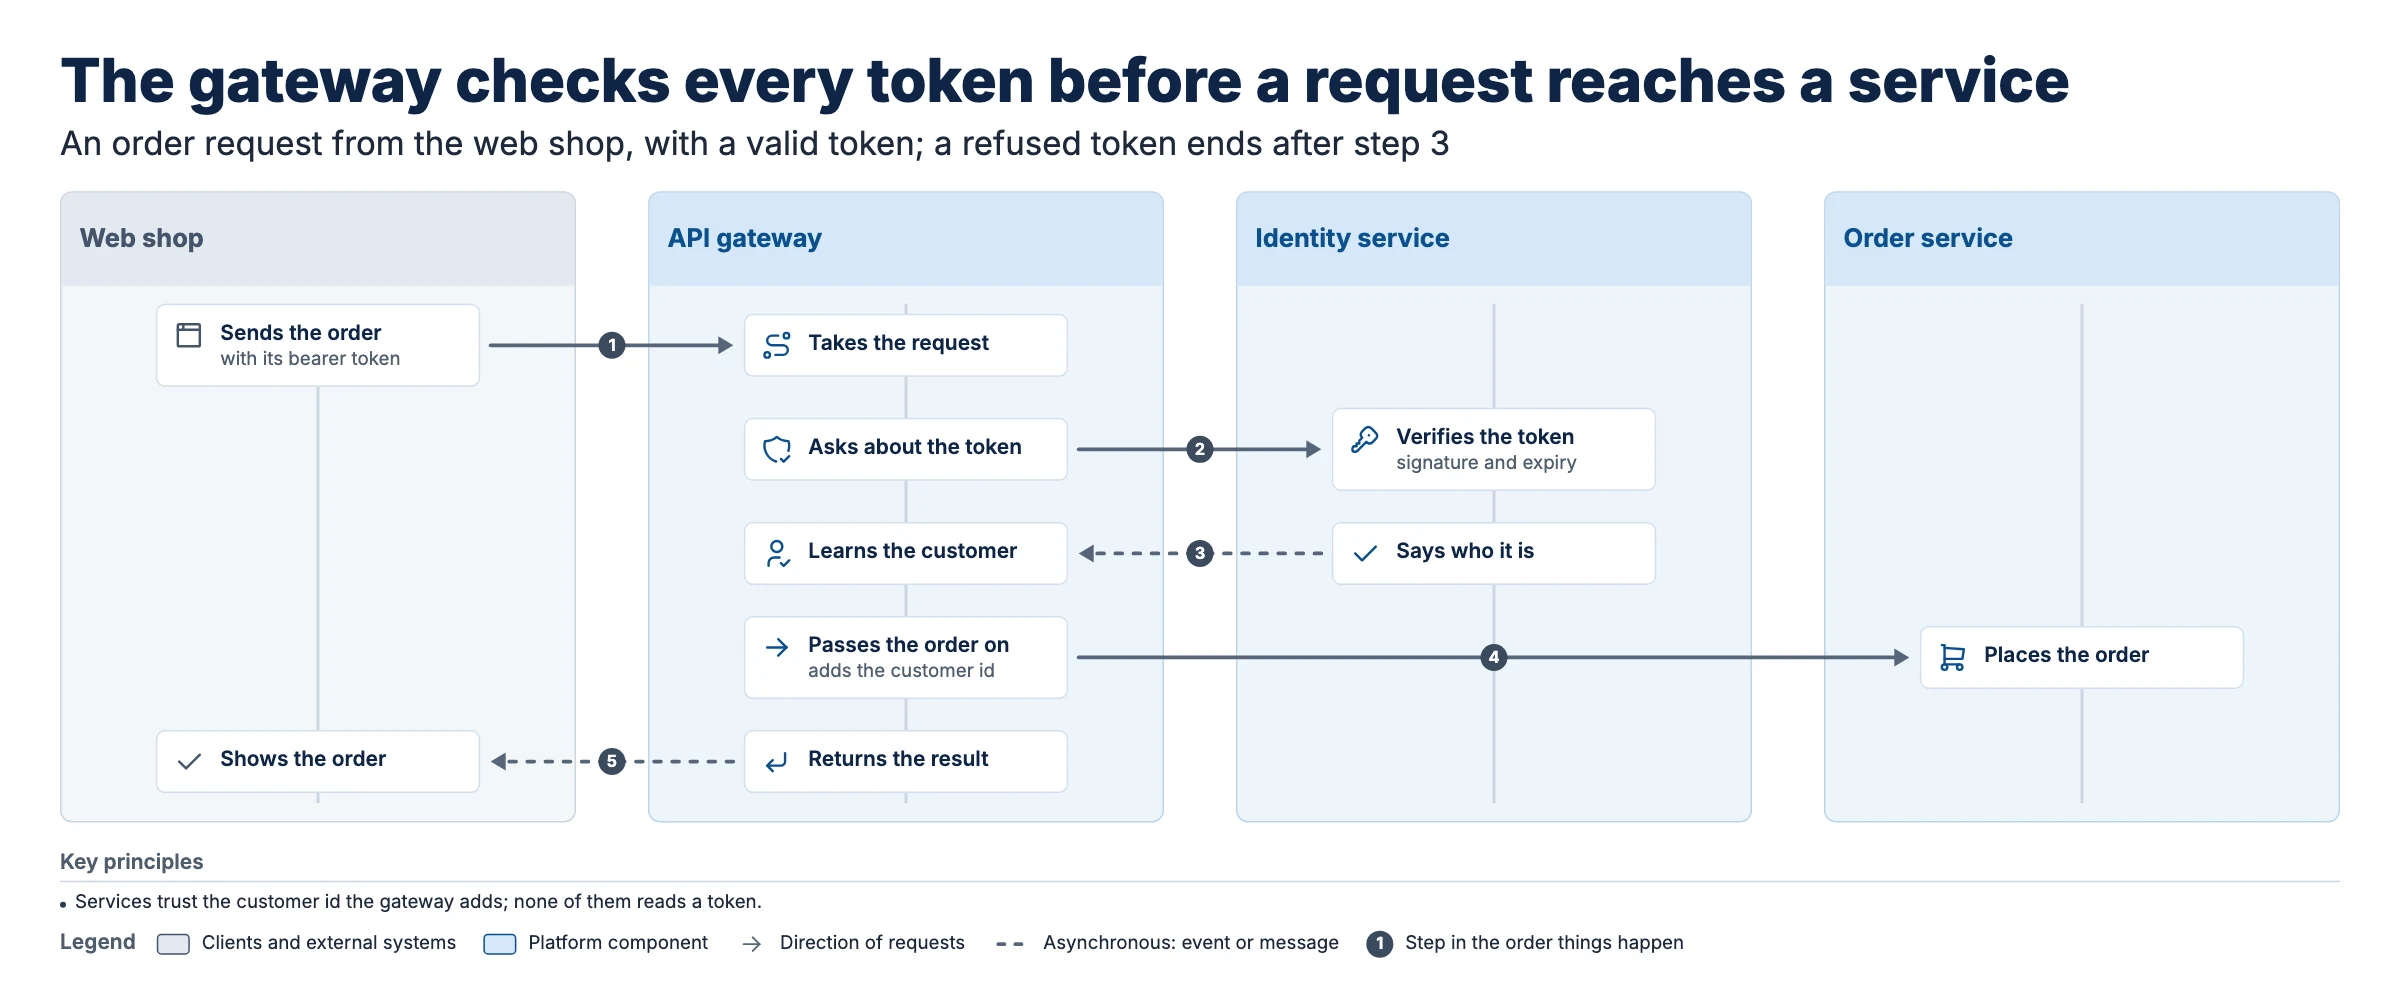
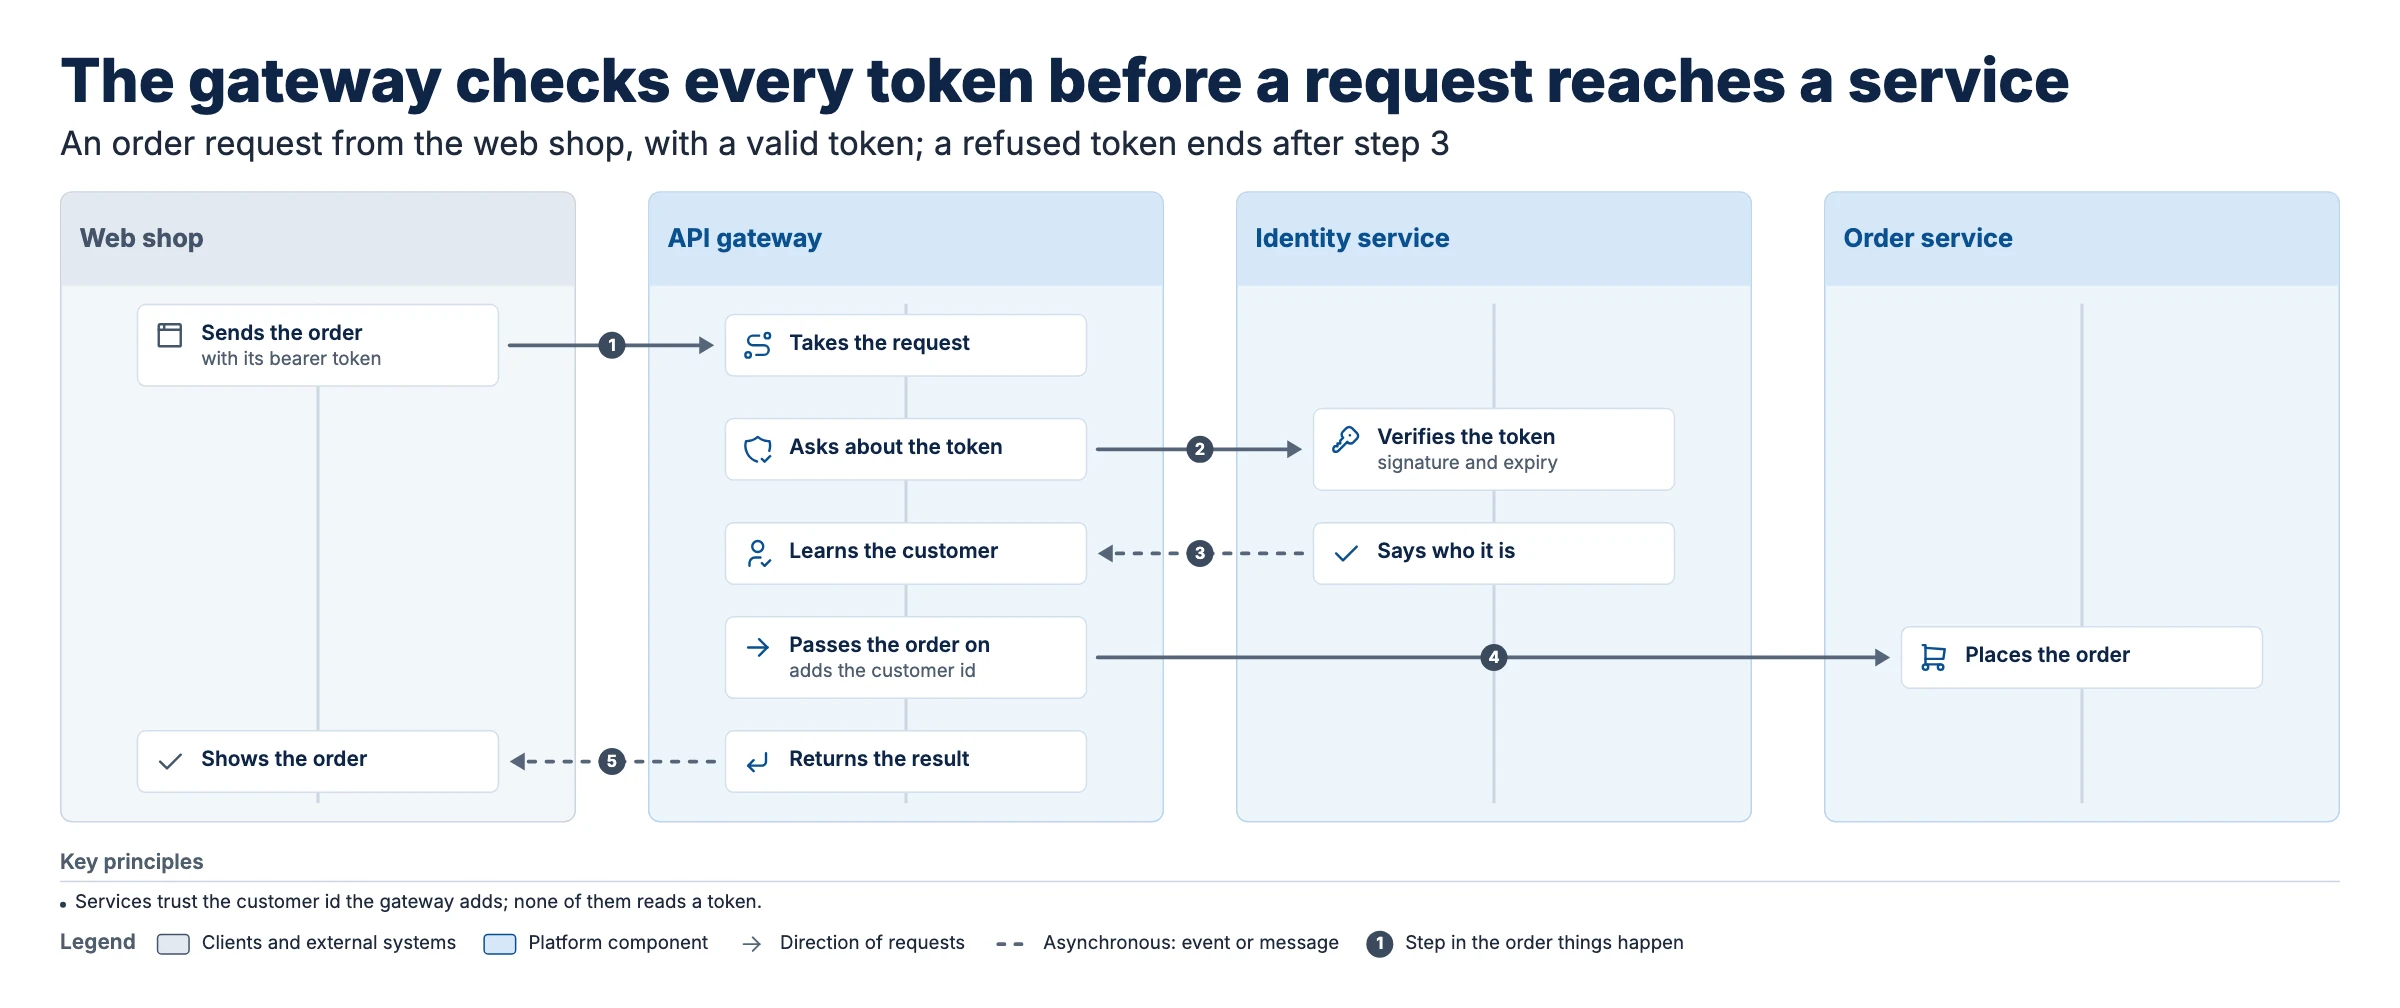
Give a lifeline twelve cards, and each part of a series its own crops
All four sequence runs hit the six-card cap: eight moments on the payment API, so they split one request over two plates
or merged calls and replies. Building a series into one folder overwrote the first part's review crops, and compared
each part with the one before. And role-fit spoke up on capability maps and quadrants, where an icon says nothing about
who owns a thing.

diff --git a/schemantic/templates/tokens.css b/schemantic/templates/tokens.css
@@ -46,7 +46,7 @@
   --dash-async: 7 5; --dash-optional: 0.5 5; --dash-planned: 5 4;
   /* Swimlanes: width of a lane's name column, and the gap between steps (room for an arrow) */
   --lane-head: 170px; --step-gap: 40px;
-  --axis-width: 96px; --lifeline-head: 62px; --lifeline-card: 68%;
+  --axis-width: 96px; --lifeline-head: 62px; --lifeline-card: 76%;
   /* Nested zones: frame colour and the faint tint that deepens with each level */
   --zone-line: #94A3B8; --zone-1: #F8FAFC; --zone-2: #F1F5F9; --zone-3: #E9EEF4;
   --step: #3B4A5E;       /* step badges: darker than --arrow, so white numbers reach 4.5:1 */

diff --git a/schemantic/pipeline.py b/schemantic/pipeline.py
@@ -98,11 +98,13 @@ def parity(page, browser, parity_svg: Path, work: Path, refused: list[str]) -> d
     return image_diff(work / "html.png", work / "svg.png", work / "parity-diff.png")
 
 
-def review_crops(browser, layout: dict, spec: dict, svg: dict, work: Path, refused: list[str], every: bool) -> dict:
-    """Optional: crops of the plate a model can read, in _work/review/. Every crop is written each time, so one a model
+def review_crops(browser, layout: dict, spec: dict, svg: dict, work: Path, name: str, refused: list[str], every: bool) -> dict:
+    """Optional: crops of the plate a model can read, in _work/review/<name>/, so the parts of a series built into one
+    folder keep their own. Every crop is written each time, so one a model
     has not read yet is never lost to a rebuild; after the first round `crops` holds the whole plate and the parts changed
     since the last round, and `unchanged` the others, unless every part is asked for."""
-    dest, last = work / "review", work / "review" / "snapshot.json"
+    dest = work / "review" / name
+    last = dest / "snapshot.json"
     previous = None if every or not last.exists() else json.loads(last.read_text(encoding="utf-8"))
     changed = changed_parts(previous, svg["snap"], spec)
     for old in dest.glob("*.png"):
@@ -161,7 +163,7 @@ def build(spec_path: str | Path, out: str | Path, *, deliver: bool = True, scale
     Returns the report: errors and warnings (each with a hint), density, parity, the build manifest, and the paths
     published (None when the build has errors; then `preview` names the unpublished files in _work/). `changed` names
     the parts (title block, panels, footer) that differ from the previous build in this folder. With review, `review`
-    lists crops of the plate a model can read, in <out>/_work/review/ (also for a build with errors): after the first
+    lists crops of the plate a model can read, in <out>/_work/review/<name>/ (also for a build with errors): after the first
     round the whole plate and the parts changed since the last one; `review_unchanged` lists the crops of the others,
     still on disk; review="all" lists every part."""
     spec_path, out = Path(spec_path), Path(out)
@@ -185,7 +187,7 @@ def build(spec_path: str | Path, out: str | Path, *, deliver: bool = True, scale
                 svg = write_svg(plate, spec, work, name, outline_text)
                 par = parity(page, browser, svg["parity_svg"], work, refused)
                 if review:
-                    shot = review_crops(browser, plate["layout"], spec, svg, work, refused, every=review == "all")
+                    shot = review_crops(browser, plate["layout"], spec, svg, work, name, refused, every=review == "all")
                     report.update(review=shot["crops"], review_unchanged=shot["unchanged"])
                 if deliver:
                     staged = deliverables(browser, spec, report["build"], svg["svg"], plate["fit"], scale, work, name, refused)

diff --git a/tests/test_scaffold.py b/tests/test_scaffold.py
@@ -55,6 +55,15 @@ def test_new_writes_a_starter_and_never_overwrites(tmp_path):
     assert code == 1 and [e["check"] for e in report["errors"]] == ["archetype"]
 
 
+def test_the_parts_of_a_series_keep_their_own_crops(tmp_path):
+    spec = sp.load_spec(ROOT / "examples" / "kliniek-zones.yaml")
+    _, first = run("build", write(tmp_path, spec, "one"), "--out", tmp_path / "out", "--review")
+    _, second = run("build", write(tmp_path, spec, "two"), "--out", tmp_path / "out", "--review")
+    assert all(Path(c["path"]).exists() for c in first["review"] + second["review"])
+    assert Path(first["review"][0]["path"]) != Path(second["review"][0]["path"])
+    assert len(second["review"]) == len(first["review"])  # a part built second is not compared with the part before it
+
+
 def test_a_placeholder_is_named_by_its_path():
     spec = sp.load_spec(ROOT / "examples" / "kliniek-zones.yaml")
     spec["panels"][1]["cards"][0]["note"] = "TODO: what it does"

diff --git a/tests/test_archetypes.py b/tests/test_archetypes.py
@@ -40,6 +40,13 @@ def test_sequence_checks(fn, says):
     assert any(says in d for d in details(SEQUENCE, fn))
 
 
+def test_a_lifeline_holds_twelve_cards_and_other_panels_six():
+    many = [{"name": f"Step {n}", "row": n, **({"id": "place"} if n == 4 else {})} for n in range(1, 13)]
+    assert not details(SEQUENCE, lambda s: panel(s, "orders").update(cards=many))
+    assert details(SEQUENCE, lambda s: panel(s, "orders").update(cards=[*many, {"name": "x", "row": 12}]))  # the schema's cap
+    assert any("a panel holds 6" in d for d in details(MAP, lambda s: panel(s, "sell").update(cards=[{"name": f"C{n}"} for n in range(7)])))
+
+
 def test_sequence_numbers_its_messages_by_row_and_a_drawn_story_keeps_its_own():
     arche = archetypes.get("sequence")
     assert [f["step"] for f in arche.expand(SEQUENCE)["flows"]] == [1, 2, 3, 4, 5]

diff --git a/schemantic/cli.py b/schemantic/cli.py
@@ -18,7 +18,7 @@ def _spec_command(sub, name: str, help_: str, scale: bool):
         p.add_argument("--dpi", type=float, default=192, help="PNG resolution: 96 is 1 px per CSS px (default 192)")
         p.add_argument("--outline-text", action="store_true", help="write text as glyph outlines (needs uharfbuzz)")
     p.add_argument("--review", nargs="?", const="changed", choices=["changed", "all"],
-                   help="also write crops of the plate a model can read, to <out>/_work/review/: of the parts changed since "
+                   help="also write crops of the plate a model can read, to <out>/_work/review/<name>/: of the parts changed since "
                         "the last review (the first time, and with `--review all`, of every part)")
     return p
 

diff --git a/schemantic/spec.py b/schemantic/spec.py
@@ -138,7 +138,10 @@ def semantic_errors(spec: dict, theme_css: str = "") -> list[dict]:
         return out
     out += roles.role_findings(spec, theme_css) + roles.role_fit_findings(spec) + slide_findings(spec)
 
-    for p in spec["panels"]:
+    for i, p in enumerate(spec["panels"]):
+        if len(p.get("cards", [])) > arche.max_cards:
+            out.append(finding("schema", f"panels/{i}/cards", f"{len(p['cards'])} cards; a panel holds {arche.max_cards}: "
+                               "split it, or the plate"))
         if p.get("weights"):
             blocks = len(p.get("patterns", [])) + (1 if p.get("cards") else 0)
             if p.get("arrange") != "row":

diff --git a/schemantic/archetypes/__init__.py b/schemantic/archetypes/__init__.py
@@ -30,6 +30,7 @@ class Archetype:
     required: frozenset[str] = frozenset()   # layout keys the archetype needs
     allowed: frozenset[str] = frozenset()    # layout keys it accepts (chips_at applies to every one)
     router_hints: dict = {}                   # reserved for layouts that prefer certain channels
+    max_cards: int = 6                        # cards in one panel; a lifeline needs more, as it has one per moment
     legend_roles: bool = True                 # False when a panel's colour means nothing on this layout
     cards_are_things: bool = True             # False when cards are steps or verdicts, so their icons do not say who
 

diff --git a/schemantic/archetypes/capability_map.py b/schemantic/archetypes/capability_map.py
@@ -10,6 +10,7 @@ class CapabilityMap(Archetype):
     name = "capability-map"
     required = frozenset({"domains"})
     allowed = frozenset({"domains", "per_row", "chips_at"})
+    cards_are_things = False
 
     def placed(self, spec: dict) -> list[str]:
         return spec["layout"]["domains"]

diff --git a/schemantic/archetypes/quadrant.py b/schemantic/archetypes/quadrant.py
@@ -10,6 +10,7 @@ class Quadrant(Archetype):
     required = frozenset({"cells", "x", "y"})
     allowed = frozenset({"cells", "x", "y", "chips_at"})
     legend_roles = False
+    cards_are_things = False
 
     def placed(self, spec: dict) -> list[str]:
         return spec["layout"]["cells"]

diff --git a/schemantic/archetypes/sequence.py b/schemantic/archetypes/sequence.py
@@ -12,6 +12,7 @@ class Sequence(Archetype):
     required = frozenset({"participants"})
     allowed = frozenset({"participants", "chips_at"})
     cards_are_things = False
+    max_cards = 12
 
     def placed(self, spec: dict) -> list[str]:
         return spec["layout"]["participants"]

diff --git a/references/archetypes.md b/references/archetypes.md
@@ -186,7 +186,8 @@ layout:
   participants: [shop, gateway, identity, orders]   # 2 to 6 lifelines, left to right
 ```
 
-- Every card has a `row`; one card per participant per row, one message per row. A step with no message is a card alone.
+- Every card has a `row`; one card per participant per row, one message per row, up to 12 on a lifeline. A step with no
+  message is a card alone. Name a card for what happens, in a word or two: six lifelines leave little width.
 - A message crosses other lifelines only where their row is empty: lint names the card in the way.
 - `style: async` draws a reply or an event dashed. Keep it to one path: a second path is a second plate.
 - The title claims the order that matters ("The gateway checks every token before a request reaches a service").

diff --git a/CHANGELOG.md b/CHANGELOG.md
@@ -17,6 +17,8 @@ All notable changes to this project. The format follows [Keep a Changelog](https
   the pick marked), `hierarchy` (a tree whose arrows follow from `children`) and `quadrant` (a two-by-two).
 
 ### Fixed
+- Parts of a series built into one folder overwrote each other's review crops, and each was compared with the part
+  before it for what changed. Crops now go to `_work/review/<name>/`.
 - The outline of a nested-zones plate left out the zones, the point of such a plate. It now lists them, nested, with
   the panels in each and those outside every zone.
 - `--review` deleted earlier crops on every build, so an agent that rebuilt before reading never saw the parts that did
